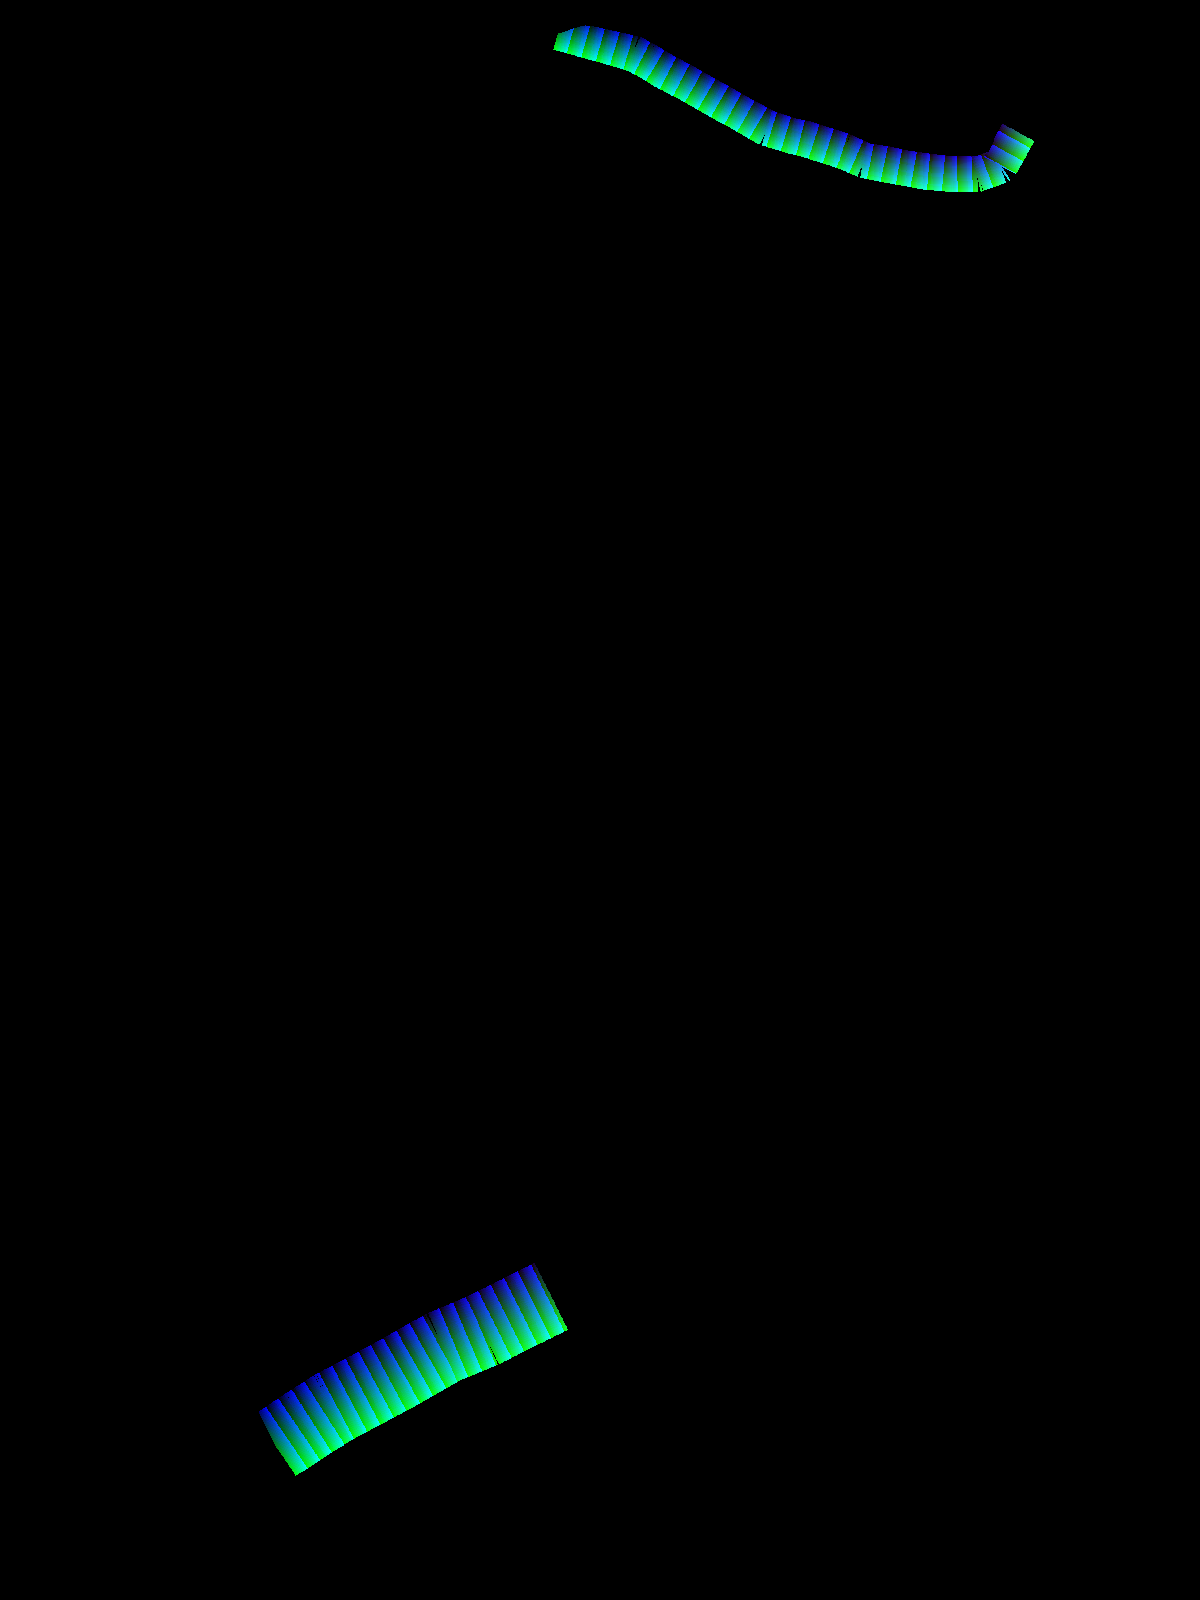
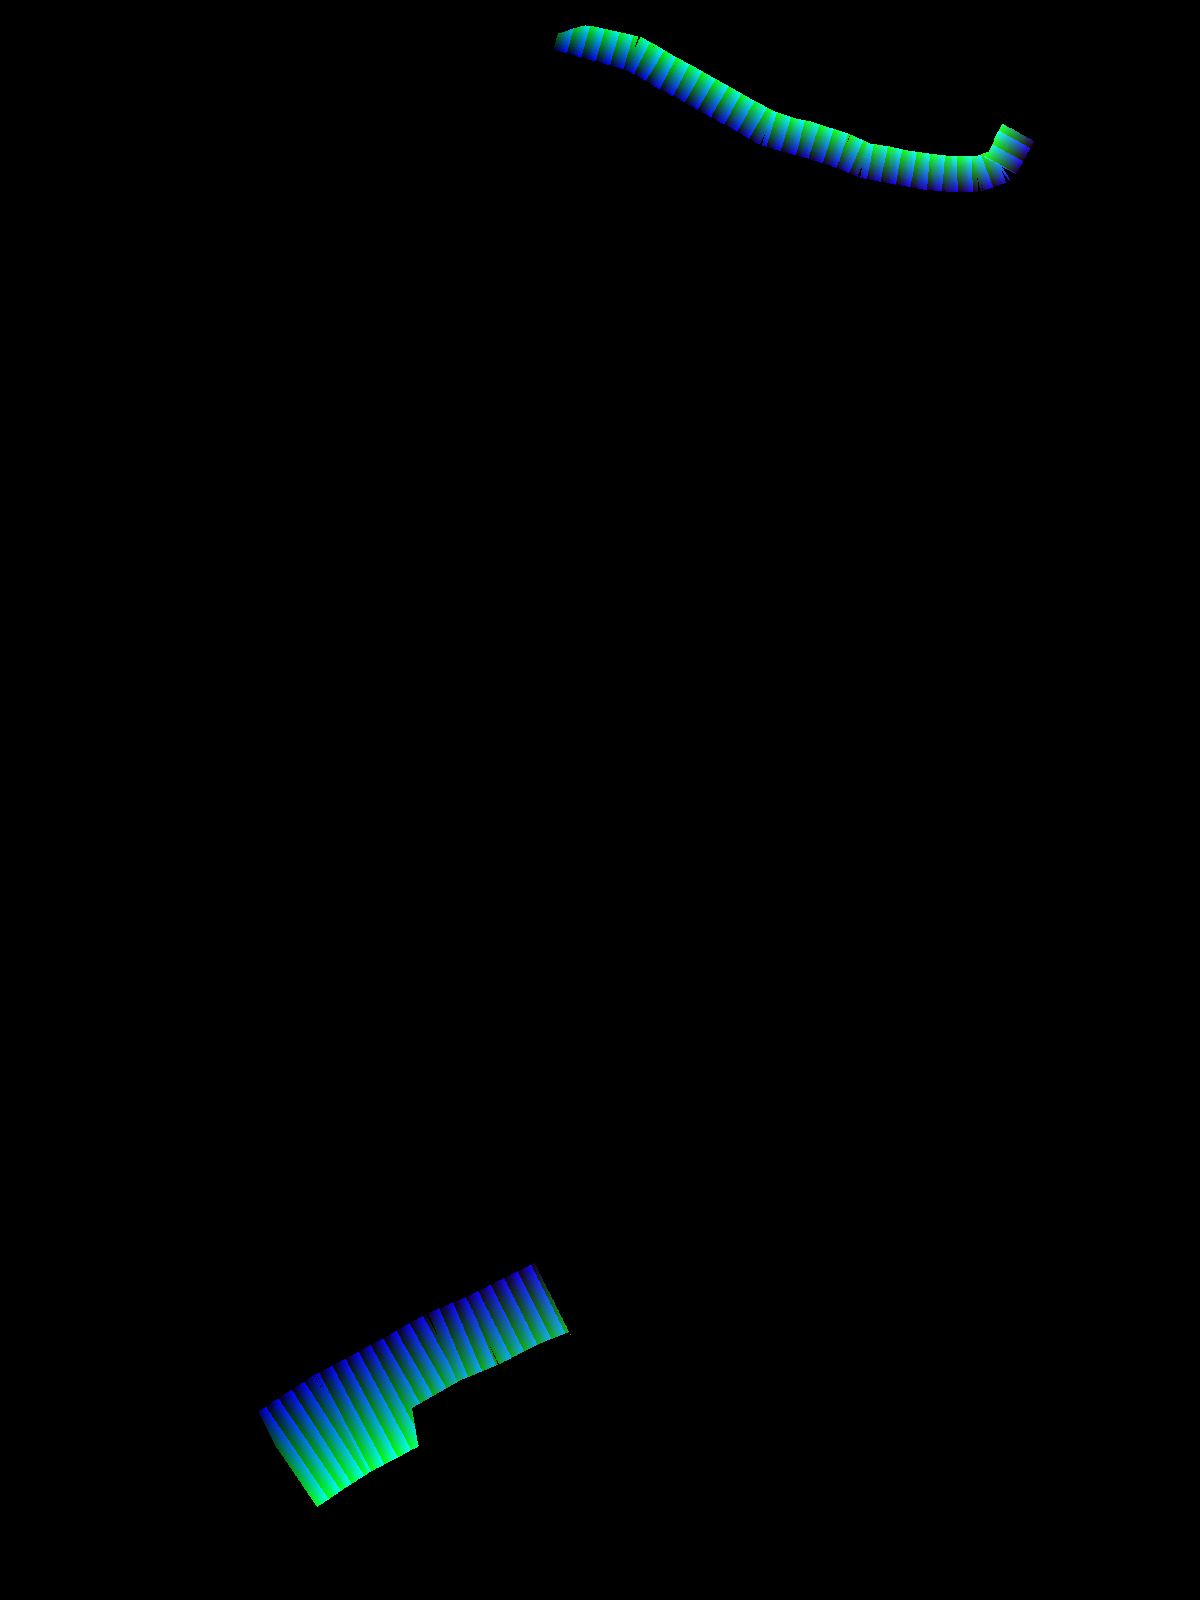
polish step 5: edging lace hangs past the hem and cuff edges
Strips oriented inner -> garment edge (outerV, no manual FLIP); edging strips written to 1.5x
width outside the garment, clipped by occluders (sleeve: the mannequin arm). The shader shifts
each lace by its edgeDepth and draws the overhang over the photo with a longer, softer shadow.
Only pearl and geometric have a clean edge; fine and leaf stay insertion.

Changed region(s): [[0.4625, 0.0, 0.8633, 0.125], [0.2158, 0.7812, 0.4933, 0.9375]]

diff --git a/demo/testing.html b/demo/testing.html
@@ -320,7 +320,9 @@
   uniform float uFabricOn, uFabricCm;
   uniform float uLaceAspect;
   uniform float uTrimOn[7], uTrimWcm[7], uTrimFlip[7];
-  uniform float uTrimFit[7], uTrimU0[7];   // lace scale along each trim (whole repeats), and its start (lace image units)
+  uniform float uTrimFit[7], uTrimU0[7];
+  uniform float uTrimVMax[7], uTrimEdging[7];   // stored V range of each strip (1.5 = edging strip); 1 = lace hangs past the edge
+  uniform float uLaceEdge;      // edgeDepth of the lace: share of its height that hangs past the garment edge
   uniform float uChecker, uPhotoOnly;
   uniform float uMipBias;       // log2 bias on the texture footprint (negative = sharper)
   uniform float uAniso;         // 1 = use plate UV gradients, 0 = round footprint
@@ -404,7 +406,10 @@
     vec4 idt = texelFetch(uId, p, 0);
     int zone = int(idt.r * 255.0 + 0.5);
     int trim = int(idt.g * 255.0 + 0.5);
-    if (zone == 0) { outColor = vec4(uLinear > 0.5 ? toSRGB(photo.rgb) : photo.rgb, 1.0); return; }
+    bool bg = zone == 0;                                             // wall, form, stand: only an edging overhang is drawn here
+    if (bg && !(trim > 0 && uTrimOn[trim] > 0.5 && uTrimEdging[trim] > 0.5)) {
+      outColor = vec4(uLinear > 0.5 ? toSRGB(photo.rgb) : photo.rgb, 1.0); return;
+    }
 
     // Canvas bigger than the plate (k < 1): interpolate between the 4 nearest plate texels,
     // but only when they are all in the same zone (or trim). Otherwise: nearest texel, so
@@ -422,7 +427,8 @@
 
     // soft edge
     float cov = 0.0;
-    if (up) {
+    if (bg) cov = 1.0;                                               // overhang: the lace alpha does the edge
+    else if (up) {
       cov = dot(wq, vec4(i00.r > 0.0 ? 1.0 : 0.0, i10.r > 0.0 ? 1.0 : 0.0, i01.r > 0.0 ? 1.0 : 0.0, i11.r > 0.0 ? 1.0 : 0.0));
     } else {                                                          // share of garment px in a 3x3 block
       for (int dy = -1; dy <= 1; dy++)
@@ -439,7 +445,9 @@
          + wq.z * decode(texelFetch(uUV, q01, 0)) + wq.w * decode(texelFetch(uUV, q11, 0));
 
     vec3 col = photo.rgb;
-    if (uChecker > 0.5) {
+    if (bg) {
+      // the photo stays: the lace and its shadow go on top
+    } else if (uChecker > 0.5) {
       float c = mod(floor(uv.x / 2.0) + floor(uv.y / 2.0), 2.0);
       vec3 a = zone == 1 ? vec3(0.84, 0.28, 0.25) : zone == 4 ? vec3(0.15, 0.62, 0.38)
              : zone == 5 ? vec3(0.42, 0.24, 0.55) : vec3(0.17, 0.36, 0.75);    // 4 back, 5 side back
@@ -460,8 +468,14 @@
       if (up && i00.g == idt.g && i10.g == idt.g && i01.g == idt.g && i11.g == idt.g)
         t = wq.x * decode(texelFetch(uUVT, q00, 0)) + wq.y * decode(texelFetch(uUVT, q10, 0))
           + wq.z * decode(texelFetch(uUVT, q01, 0)) + wq.w * decode(texelFetch(uUVT, q11, 0));
-      float across = t.y / uRange;
-      if (uTrimFlip[trim] > 0.5) across = 1.0 - across;
+      float rawV = t.y / uRange * uTrimVMax[trim];                      // 0 inner side .. 1 garment edge .. vMax tip of the overhang
+      bool edg = uTrimEdging[trim] > 0.5;
+      // the overhang of an edging strip is used only when edging is on for this trim and lace (else: no trim here, as before)
+      if (edg || rawV <= 1.0) {
+      float across = rawV;
+      if (uTrimFlip[trim] > 0.5) across = 1.0 - across;                // old plates only (no outerV)
+      if (edg) across -= uLaceEdge;                                     // the decorative edge crosses the garment edge
+      bool inLace = across >= 0.0 && across <= 1.0;
       float w = uTrimWcm[trim];
       float fit = uTrimFit[trim];
       vec2 lc = vec2(t.x / (w * uLaceAspect * fit) + uTrimU0[trim], across);
@@ -469,16 +483,21 @@
       gradTrim(p, trim, k, w, fit, gx, gy);
       float bias = exp2(uMipBias);
       vec4 lace = cin(textureGrad(uLace, lc, gx * bias, gy * bias));
+      if (!inLace) lace = vec4(0.0);
       if (uShadowStrength > 0.0) {
         // Shadow of the lace on the fabric: the lace alpha read again, shifted right and down on the stage,
         // 1.5 mip levels softer. The shift is a fixed direction on the screen, so it stays lower-right along the
         // curve of the neckline: gx, gy are the lace coordinates per canvas px, from the plate UV.
-        vec2 o = uShadowMm / (uCmPerPx * 10.0) / k;                    // mm -> plate px -> canvas px
+        // on the background (wall, form) the lace is farther in front: a longer, softer shadow (x1.5, +0.5 mip)
+        vec2 o = uShadowMm * (bg ? 1.5 : 1.0) / (uCmPerPx * 10.0) / k;   // mm -> plate px -> canvas px
         vec2 off = gx * o.x + gy * o.y;
-        float sh = textureGrad(uLace, lc - off, gx * bias * 2.8284, gy * bias * 2.8284).a;
+        float soft = bg ? 4.0 : 2.8284;
+        vec2 sc = lc - off;
+        float sh = (sc.y >= 0.0 && sc.y <= 1.0) ? textureGrad(uLace, sc, gx * bias * soft, gy * bias * soft).a : 0.0;
         col *= 1.0 - uShadowStrength * sh * (1.0 - lace.a);           // the lace itself is not darkened
       }
       col = mix(col, lace.rgb * (uLinear > 0.5 ? min(s * 1.124, 1.399) : min(s * 1.05, 1.15)), lace.a);   // 1.05^2.4, 1.15^2.4
+      }
     }
 
     vec3 o = mix(photo.rgb, clamp(col, 0.0, 1.0), cov);
@@ -503,7 +522,7 @@
 
   // ---------- textures
   const aniso = gl.getExtension("EXT_texture_filter_anisotropic");
-  const params = new URLSearchParams(location.search);       // test switches: ?bias=0  ?aniso=0  ?shade=0  ?shadow=0  ?linear=0  ?lacefit=0
+  const params = new URLSearchParams(location.search);       // test switches: ?bias=0  ?aniso=0  ?shade=0  ?shadow=0  ?linear=0  ?lacefit=0  ?edging=0
   const MIP_BIAS = params.has("bias") ? parseFloat(params.get("bias")) : -0.5;
   if (params.has("stage")) {                                  // test: ?stage=<css px> makes the stage wider
     const st = document.createElement("style");
@@ -514,6 +533,7 @@
   const SHADE_ON = params.get("shade") === "0" ? 0 : 1;           // test: ?shade=0  flat light
   const LINEAR = params.get("linear") === "0" ? 0 : 1;            // test: ?linear=0  the old sRGB maths
   let SRGB_TEX = LINEAR;                                         // SRGB8_ALPHA8 colour textures (falls back to shader decode)
+  const EDGING = params.get("edging") === "0" ? 0 : 1;            // test: ?edging=0  edging trims clipped at the garment edge
   const LACEFIT = params.get("lacefit") === "0" ? 0 : 1;          // test: ?lacefit=0  the old mirrored lace, no fit, no start point
   const SHADOW = params.has("shadow") ? parseFloat(params.get("shadow")) : 0.35;   // test: ?shadow=0 off, ?shadow=0.5 stronger
   // data maps: exact bytes (no colour conversion, no premultiply), NEAREST
@@ -615,10 +635,14 @@
   function laceFit() {
     if (!plate || !lace) return;
     const fit = new Float32Array(7).fill(1), u0 = new Float32Array(7);
+    const vmax = new Float32Array(7).fill(1), edging = new Float32Array(7);
+    const edgeDepth = lace.meta?.edgeDepth ?? 0.35;
     for (const [name, id] of Object.entries(TRIMS)) {
       const t = plate.trims[name];
       if (!t) continue;
       const L = t.lengthCm, w = t.widthMm / 10, tile = w * lace.aspect;   // cm
+      vmax[id] = t.vMax || 1;
+      edging[id] = EDGING && t.type === "edging" && lace.meta?.edging ? 1 : 0;   // only laces with a clean (keyed) edge
       if (!LACEFIT) { fitLog[name] = "off"; continue; }
       if (lace.mirror) {                               // no repeat: a mirror axis at the middle of neck and hem
         if (CENTRED[name]) u0[id] = -L / (2 * tile);
@@ -643,6 +667,9 @@
     }
     gl.uniform1fv(U("uTrimFit"), fit);
     gl.uniform1fv(U("uTrimU0"), u0);
+    gl.uniform1fv(U("uTrimVMax"), vmax);
+    gl.uniform1fv(U("uTrimEdging"), edging);
+    gl.uniform1f(U("uLaceEdge"), edgeDepth);
     document.documentElement.dataset.lacefit = JSON.stringify(fitLog);   // for the harness (--dump-dom)
   }
 
@@ -682,7 +709,8 @@
     const viewFlip = VIEW_FLIP[view] || FLIP;
     for (const [name, id] of Object.entries(TRIMS)) {
       w[id] = (plate.trims[name]?.widthMm ?? 20) / 10;
-      flip[id] = viewFlip[name] || 0;
+      // new plates orient V themselves (outerV = 1: 0 inner side, 1 garment edge); old plates use the FLIP table
+      flip[id] = plate.trims[name]?.outerV !== undefined ? 0 : (viewFlip[name] || 0);
     }
     gl.uniform1fv(U("uTrimWcm"), w);
     gl.uniform1fv(U("uTrimFlip"), flip);

diff --git a/demo/tools/make_plate.py b/demo/tools/make_plate.py
@@ -151,36 +151,73 @@ for name, zone in sorted(Z["zones"].items(), key=lambda kv: kv[1]["order"]):
 
 garment = id_img.split()[0].point(lambda p: 255 if p else 0)
 
-# ---- trims (on top of everything, but only on the garment)
+# ---- trims (on top of everything)
+# polish.md step 5. Every strip is written with V = 0 at its inner side and V = 1 at the side of the garment edge that it
+# follows (plate.json "outerV": 1), so the decorative edge of a lace points outward with no manual FLIP.
+# An EDGING trim ("type": "edging"; default for hem and cuffs) is written wider, to V = vMax (1.5 strip widths): the part past
+# V = 1 lies OUTSIDE the garment (zone 0 in id.png R), where the lace hangs over the photo. That part is clipped only by
+# objects in front ("occluders" in zones.json, e.g. the mannequin arm). The shader shifts each lace by its own edgeDepth.
+EDGING_DEFAULT = {"hem", "cuff-l", "cuff-r"}
+V_MAX_EDGING = 1.5
+occl = Image.new("L", (W, H), 0)
+for poly in Z.get("occluders", []):
+    ImageDraw.Draw(occl).polygon([tuple(q) for q in poly], fill=255)
+free = occl.point(lambda v: 0 if v else 255)
+gpx = garment.load()
 for name, trim in Z["trims"].items():
     c = trim["centre"]
+    ttype = trim.get("type", "edging" if name in EDGING_DEFAULT else "insertion")
+    vmax = V_MAX_EDGING if ttype == "edging" else 1.0
     half = trim["widthMm"] / 2 / MMPX
     n = max(4, round(length(c) / STEP))
     C = resample(c, n)
     len_cm = length(c) * MMPX / 10
-    across = max(8, math.ceil(2 * half))  # one step per px across the trim
-    layer = Image.new("RGB", (W, H), (0, 0, 0))
-    m = Image.new("L", (W, H), 0)
-    dl, dm = ImageDraw.Draw(layer), ImageDraw.Draw(m)
-    for i in range(n):
+    # which side of the centre line is the garment edge: march out along both normals (from the strip edge, up to 60 px)
+    # and take the side where the garment ends first, by the median over the trim. A trim far from any edge on both
+    # sides (none in the 4 plates) keeps +1.
+    dpos, dneg = [], []
+    for i in range(0, n, max(1, n // 60)):
         a, b = C[i], C[i + 1]
         tx, ty = b[0] - a[0], b[1] - a[1]
         ln = math.hypot(tx, ty) or 1
         nx, ny = -ty / ln, tx / ln
-        for k in range(across):
-            v0, v1 = -half + 2 * half * k / across, -half + 2 * half * (k + 1) / across
+        for sgn, acc in ((1, dpos), (-1, dneg)):
+            d = 999
+            for step in range(0, 61):
+                x, y = a[0] + nx * sgn * (half + step), a[1] + ny * sgn * (half + step)
+                if not (0 <= x < W and 0 <= y < H and gpx[int(x), int(y)]):
+                    d = step
+                    break
+            acc.append(d)
+    med = lambda l: sorted(l)[len(l) // 2]
+    sg = -1 if med(dneg) < med(dpos) else 1
+    steps_in = max(8, math.ceil(2 * half))              # one step per px across the strip
+    steps = math.ceil(steps_in * vmax)
+    layer = Image.new("RGB", (W, H), (0, 0, 0))
+    m_in, m_out = Image.new("L", (W, H), 0), Image.new("L", (W, H), 0)
+    dl, di, do = ImageDraw.Draw(layer), ImageDraw.Draw(m_in), ImageDraw.Draw(m_out)
+    for i in range(n):
+        a, b = C[i], C[i + 1]
+        tx, ty = b[0] - a[0], b[1] - a[1]
+        ln = math.hypot(tx, ty) or 1
+        nx, ny = -ty / ln * sg, tx / ln * sg             # now points to the garment edge
+        for k in range(steps):
+            f0, f1 = k / steps_in, min(vmax, (k + 1) / steps_in)   # V in strip widths, 0 = inner side
+            v0, v1 = -half + 2 * half * f0, -half + 2 * half * f1
             quad = [(a[0] + nx * v0, a[1] + ny * v0), (b[0] + nx * v0, b[1] + ny * v0),
                     (b[0] + nx * v1, b[1] + ny * v1), (a[0] + nx * v1, a[1] + ny * v1)]
-            col = pack((i + 0.5) / n * len_cm / CM_RANGE, (k + 0.5) / across)
+            col = pack((i + 0.5) / n * len_cm / CM_RANGE, (f0 + f1) / 2 / vmax)
             dl.polygon(quad, fill=col, outline=col)
-            dm.polygon(quad, fill=255, outline=255)
-    m = ImageChops.multiply(m, garment)
+            (di if k < steps_in else do).polygon(quad, fill=255, outline=255)
+    m_in = ImageChops.multiply(m_in, garment)            # the strip itself: on the garment only (as before)
+    m_out = ImageChops.multiply(m_out, free)             # the overhang: anywhere, except objects in front
+    m = ImageChops.lighter(m_in, m_out)
     uvt_img.paste(layer, (0, 0), m)
     r, g_, b_ = id_img.split()
     g_.paste(TRIM_ID[name], (0, 0), m)
     id_img = Image.merge("RGB", (r, g_, b_))
-    plate["trims"][name] = {"id": TRIM_ID[name], "lengthCm": round(len_cm, 1),
-                            "widthMm": trim["widthMm"]}
+    plate["trims"][name] = {"id": TRIM_ID[name], "lengthCm": round(len_cm, 1), "widthMm": trim["widthMm"],
+                            "type": ttype, "outerV": 1, "vMax": vmax}
 
 # ---- shade: luminance / median inside the garment
 Lum = base.convert("L")

diff --git a/demo/tools/annotate_sleeve.py b/demo/tools/annotate_sleeve.py
@@ -192,6 +192,8 @@ data = {
     "trims": {"neck": {"order": 3, "widthMm": 12, "centre": neck_trim},
               "cuff-l": {"order": 3, "widthMm": 25, "centre": cuff_trim}},
     "stitches": {"neck-topstitch": neck_stitch, "cuff-topstitch": T(cuff_stitch)},
+    # objects in front of the garment (polish.md step 5): an edging lace hanging past the cuff must not cover the arm
+    "occluders": [T(arm_left + arm_right[1:] + cuff_edge[cuff_edge.index((1040, 1801)) + 1:-1][::-1])],
 }
 json.dump(data, open(f"{D}/zones.json", "w"), indent=1)
 

diff --git a/demo/docs/plan/polish-results.md b/demo/docs/plan/polish-results.md
@@ -224,3 +224,38 @@ fine      period 183.0 px = 0.410 x band height, 6 periods per image
 | Each lace asset ≤ 600 KB | ✔ (434 / 158 / 326 / 68 KB) |
 
 Backups: `lace-*-2048@4.webp`, `testing@4.html` (untracked).
+
+## Step 5: edging lace past the garment edge (accepted, offline checks only)
+
+**Plates** (`make_plate.py`):
+- Each trim has a `type`: `edging` (default for `hem`, `cuff-*`) or `insertion` (`neck`, `slit-*`); `zones.json` can set it per trim.
+- Every strip is now written with **V = 0 at its inner side and V = 1 at the side of the garment edge it follows**, for every trim (`plate.json` `"outerV": 1`). The side is found by marching out along both normals (up to 60 px) and taking the side where the garment ends first. So the decorative edge of a lace points outward with **no manual `FLIP`** (the page uses `FLIP` only for plates without `outerV`).
+- An edging strip is written to **V = 1.5** (`"vMax"`): the part past V = 1 lies outside the garment, where `id.png` R stays 0 and only G (trim id) and `uv_trim.png` are written. That part is clipped by `"occluders"` in `zones.json`; `annotate_sleeve.py` now writes the mannequin arm below the cuff as one (only that key changed: `base.jpg` and `annotate.png` byte-identical).
+
+**Laces:** the sidecar's `edgeDepth` (share of the band height below the last row with ≥ 80 % alpha cover) and `edging` (true only if the bottom 5 % of the band is mostly open). Measured:
+
+| Lace | edgeDepth | bottom 5 % open | edging |
+|---|---|---|---|
+| pearl | 0.096 | 77 % | **yes** |
+| geometric (turned 180° in step 4) | 0.112 | 75 % | **yes** |
+| fine | 0.0 | 0 % | no: the paper inside the loops was never keyed (alpha 1 everywhere) |
+| leaf | 0.0 | 4 % | no: the tulle ground is partly opaque down to the bottom row |
+
+This is the plan's fallback ("edging only on the laces with a clean key"), but the data picked **pearl and geometric**, not geometric and fine as the plan expected: the fine lace has the worst key of the four. Fine and leaf stay insertion until they are photographed (or keyed) again.
+
+**Shader:** where the trim is edging **and** the lace allows it, the lace is shifted outward by `edgeDepth` (its decorative edge crosses the garment edge). Over the background (`zone == 0`) the lace is drawn over the photo, with its shadow on the photo **×1.5 longer and softer** (+0.5 mip). Outside the edging case the overhang pixels are ignored completely (as before the step). Test switch `?edging=0`.
+
+**Checks (offline, on the plates; `polish_metrics`-style scans of id / uv_trim):**
+
+| Check | Result |
+|---|---|
+| `rebuild_check.sh` | only `id.png`, `uv_trim.png`, `plate.json` differ (neck `id.png` unchanged: no edging trim) ✔ |
+| Overhang written, outside the garment | torso: cuffs 1611 / 1682 px, hem 7287 px on the background; sleeve cuff 1195 px on the background + 3787 px over the bodice (the lace hangs in front of the body); hem view: 44559 px ✔ |
+| Overhang on the mannequin arm (sleeve) | 0 px of overhang; 57 px of the **inner** strip lie on the rasterised edge of the arm polygon (on the garment side of the cuff edge) |
+| Decorative edge outward, no FLIP, all trims | ✔ every edging trim (its V > 1 part lies outside the garment); every insertion trim: the V > 0.85 side is the one next to the garment edge (neck: 1.00 vs 0.02–0.05; hem-view slits: 0.97 vs 0.00–0.01; torso slits: V = 1 on the side away from the centre) |
+| Overhang depth = decorative depth ± 1 mm | by construction: shift = edgeDepth × trim width (pearl on a 30 mm hem: 2.9 mm; geometric: 3.4 mm). **Not checked in a render.** |
+| Holes in the overhang show the photo | by construction (the base colour there is the photo). **Not checked in a render.** |
+| `fabric=off`, all lace off: identical to step 4 | by code: with no trim on, a background pixel returns the photo before any new code. **Not checked in a render.** |
+| Plate data | torso 437, neck 381, sleeve 726, hem 481 KB ✔ |
+
+Backups: `id@5.png`, `uv_trim@5.png`, `plate@5.json`, sleeve `zones@5.json`, `testing@5.html` (untracked).
